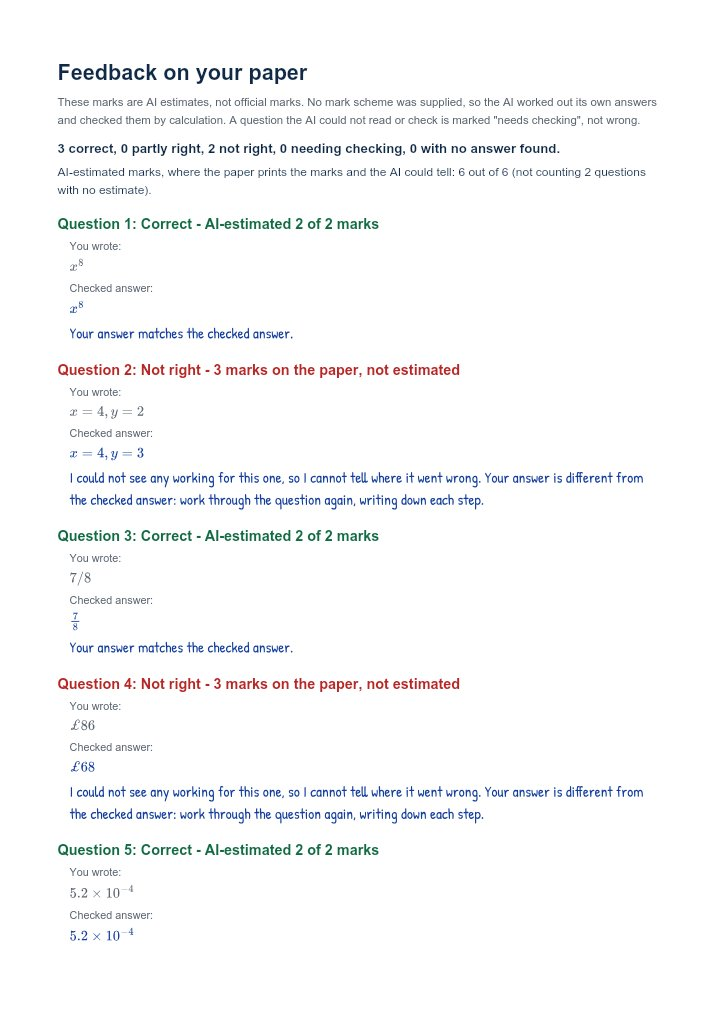
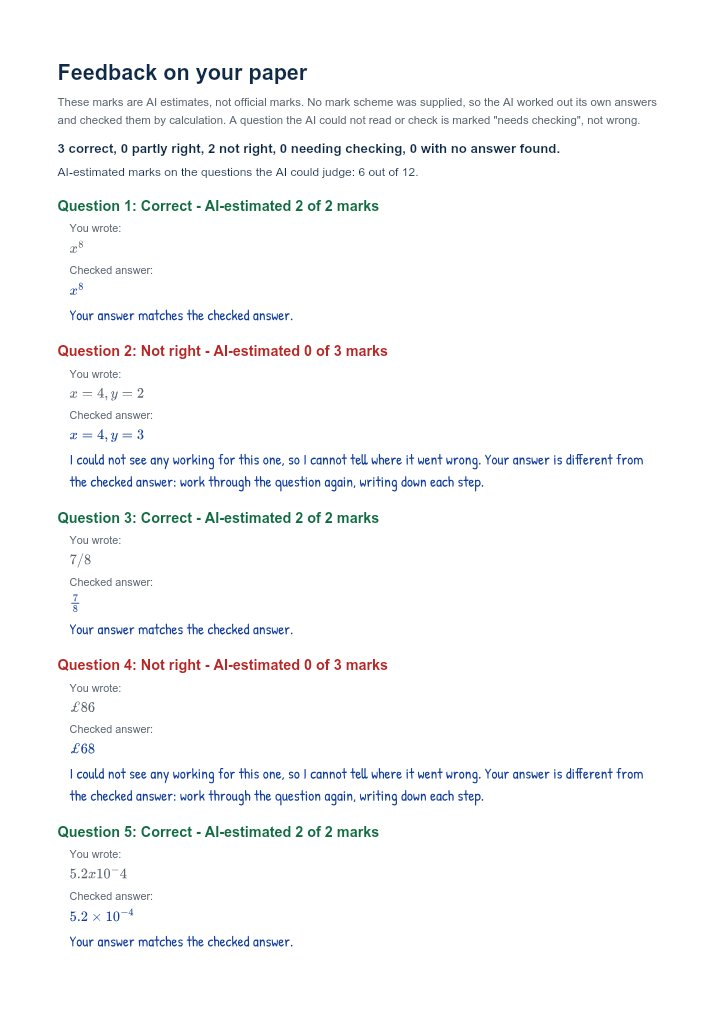
Marker: a handwritten x between numbers is times; different unknowns get no verdict
The default model read a student's '5.2 x 10^-4' literally, and the checker took the
x for a variable, calling a right answer wrong. Record the qwen3.5:9b run (7/7
verdicts, 0 right answers called wrong) in docs/ASSISTANT.md.

Changed region(s): [[0.0615, 0.1532, 0.8911, 0.9496], [0.7067, 0.1532, 0.8911, 0.1838]]

diff --git a/apps/web/src/lib/paper/mark.ts b/apps/web/src/lib/paper/mark.ts
@@ -1,7 +1,7 @@
 import { z } from "zod";
 import type { ProviderMessage } from "@/lib/assistant/types";
 import type { SolvedQuestion } from "./annotate";
-import { equivalent, readSolutions, sameValue, valueOf } from "./maths";
+import { equivalent, readSolutions, sameValue, valueOf, variables } from "./maths";
 import type { PaperQuestion } from "./questions";
 import { solveQuestion, type SolveDeps } from "./solve";
 
@@ -120,8 +120,10 @@ export async function readStudentAnswer(deps: SolveDeps, q: PaperQuestion, pictu
 
 /** Do two final answers say the same thing? True / false when a calculation can tell, null when it cannot. */
 export function sameAnswer(student: string, reference: string): boolean | null {
-  const a = stripDollars(student);
-  const b = stripDollars(reference);
+  // Handwriting writes "times" as a letter x between numbers (5.2 x 10^-4): that is a multiplication, not a variable.
+  const times = (t: string) => t.replace(/(\d)\s*[xX]\s*(?=\d)/g, "$1 \\times ");
+  const a = times(stripDollars(student));
+  const b = times(stripDollars(reference));
   if (!a || !b) return null;
   // Words are not maths: the parser would read "five" as f x i x v x e and call it unequal to 5. No calculation, no verdict.
   const words = (t: string) => /[a-z]{3,}/i.test(t.replace(/\\[a-z]+/gi, "").replace(/\b(?:or|and)\b/gi, ""));
@@ -144,6 +146,8 @@ export function sameAnswer(student: string, reference: string): boolean | null {
   const va = valueOf(a);
   const vb = valueOf(b);
   if (va !== null && vb !== null) return sameValue(va, vb);
+  // Expressions that use different unknowns are not "different answers", they are answers this cannot compare.
+  if (variables(a).join() !== variables(b).join()) return null;
   return equivalent(a, b);
 }
 

diff --git a/docs/ASSISTANT.md b/docs/ASSISTANT.md
@@ -85,7 +85,7 @@ How a verdict is reached (`src/lib/paper/mark.ts`; the same rule as solving: **a
 
 The output (`markPdf.ts`) is the student's own pages exactly as uploaded, a tick, cross, tick-and-dot or circle in the left margin beside each question the AI could place (only where the paper has a text layer saying where the question is, and never over the work), and feedback pages at the end. The summary with the feedback is posted into the chat with the paper and the mark scheme attached, so "where did I lose marks?", "give me a hint for question 4" and "explain question 2" work afterwards without checking again. The panel lists every question to open one by one.
 
-**Measured** (`node --import tsx scripts/mark-check.mjs`, `qwen3-vl:8b-instruct` on Ollama, 2026-10-22; `qwen3.5:9b` was not installed on this machine): on two **synthetic** papers (answers drawn into the answer spaces of the fixture papers in a handwriting-style font, then rebuilt as picture-only PDFs, so there is no text layer, as a scan would be), 7 questions with known right and wrong answers: questions found 7/7, the writing read correctly 7/7, verdicts given 7/7 and all 7 right, 0 right answers called wrong, about 35 s for 2 questions and 70 s for 5. **This is not evidence about real handwriting**: a font is tidier than a pen, there was no crossing out, no rough working, no photograph taken at an angle and no real exam-board mark scheme. Marking stays opt-in until it is measured on real scripts with a teacher's marks as the reference.
+**Measured** (`node --import tsx scripts/mark-check.mjs`, the default `qwen3.5:9b` on Ollama, 2026-10-22): on two **synthetic** papers (answers drawn into the answer spaces of the fixture papers in a handwriting-style font, then rebuilt as picture-only PDFs, so there is no text layer, as a scan would be), 7 questions with known right and wrong answers: questions found 7/7, the writing read correctly 7/7, verdicts given 7/7 and all 7 right, 0 right answers called wrong, about 30 s for 2 questions and 105 s for 5. The same run found a real fault, now fixed and tested: a student's letter x for "times" (`5.2 x 10^-4`) was read as a variable, so a right answer was called wrong; a digit-x-digit is now a multiplication, and two answers that use different unknowns get no verdict at all. (`qwen3-vl:8b-instruct` also scored 7/7 on the first run, before that fix, which that set did not expose because it read the sign as `	imes`.) **This is not evidence about real handwriting**: a font is tidier than a pen, there was no crossing out, no rough working, no photograph taken at an angle and no real exam-board mark scheme. Marking stays opt-in until it is measured on real scripts with a teacher's marks as the reference.
 
 Known limits: a mark scheme must be a PDF with a text layer (a photo of one is not read, and the panel says so); the scheme is matched to questions by number only, and the scheme path has only been run with the mock model and a stand-in scheme (a fixture worksheet), never a real exam-board mark scheme; marks are estimated only where the paper prints them; geometry and diagram questions have no calculation check, so they are "needs checking"; the results, like solving jobs, live in the server's memory for two hours (the PDF and the chat summary stay with the chat's retention).
 
